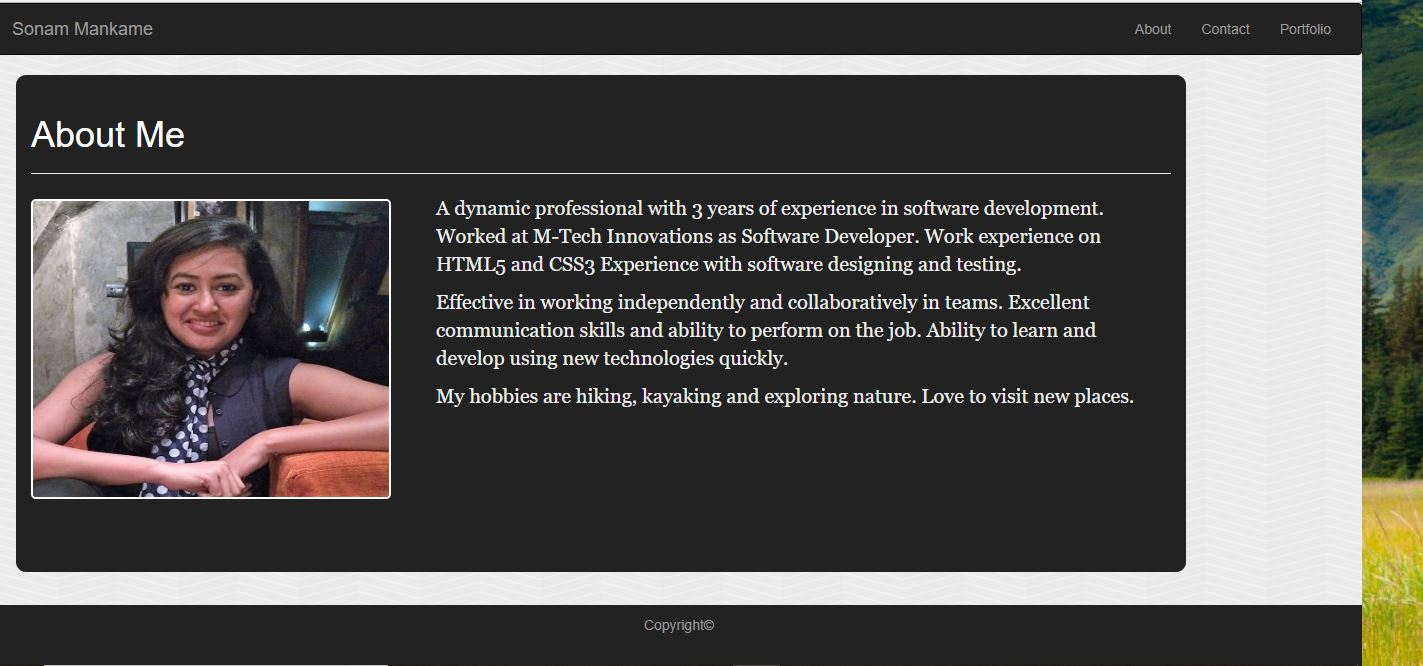
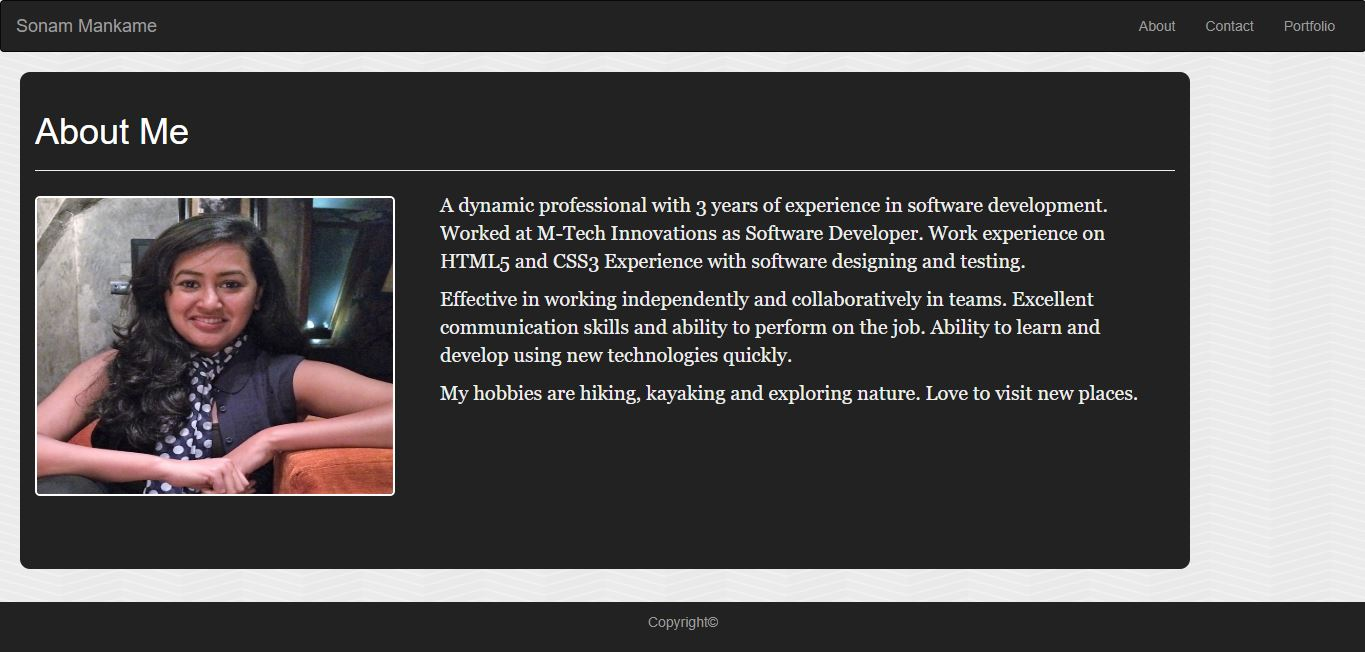
made changes to contact and portfolio page and stylesheet and added image

Changed region(s): [[0.0, 0.0, 1.0, 1.0]]

diff --git a/portfolio.html b/portfolio.html
@@ -24,9 +24,10 @@
     </div>
     <div class="collapse navbar-collapse" id="myNavbar">
         <ul class="nav navbar-nav navbar-right">
-                <li>  <a href="contact.html"  target="_blank">Contact</a></li>
+          <li> <a href="index.html " target="_blank">About</a></li>      
+          <li>  <a href="contact.html"  target="_blank">Contact</a></li>
              <li>   <a href="portfolio.html" >Portfolio</a></li>
-              <li> <a href="index.html " target="_blank">About</a></li> 
+             
               </ul>
    </div>
     </div>
@@ -58,14 +59,14 @@
                       <div class ="row">
                           <div class=" col-xs-12  col-sm-6 col-md-6 col-lg-12 ">
                            <div class="container1">
-                              <img src="assets/images/fanpageimg.JPG" alt="Fanpage">
-                                <button type="button" onclick= "window.open('https://sonam25.github.io/fanpage/','_blank') ">Fanpage</button>
+                              <img src="assets/images/Responsive-Project.JPG" alt="Responsive-Project">
+                                <button type="button" onclick= "window.open('https://sonam25.github.io/Responsive-Portfolio/','_blank') ">Responsive-Portfolio</button>
                             </div>
                           </div>
                           <div class="col-xs-12  col-sm-6 col-md-6 col-lg-12 ">
                             <div class="container1">
-                                  <img src="assets/images/Wireframe.JPG" alt="Wireframe Project" class="img-responsive">
-                                  <button type="button"onclick= "window.open('https://sonam25.github.io/HW-Wireframe/') ">Wireframe</button>
+                                  <img src="assets/images/Bootstrap project.JPG" alt="Bootstrap Project" class="img-responsive">
+                                  <button type="button"onclick= "window.open('https://sonam25.github.io/Bootstrap-Portfolio/','_blank') ">Bootstrap-Portfolio</button>
                                 </div>
                               </div> 
                       </div>

diff --git a/assets/css/style.css b/assets/css/style.css
@@ -26,7 +26,7 @@ footer{
 }
 .container{
      background-color: #222;
-     height:70%;
+     height:75%;
     margin:0 10px 0 20px;
      border-radius: 10px;
  }
@@ -102,7 +102,7 @@ label{
 .container1 img {
     margin-left:10px;
     width: 95%;
-    height: 180px;
+    height: 160px;
     border:4px solid #009999;
     border-radius: 5px;
 }
@@ -123,10 +123,12 @@ label{
 .container1 button:hover {
     background-color: black;
 }
-@media screen and (max-width:768px){
+
+
+@media screen and (max-width:960px){
     .container{
         background-color: #222;
-        height:80%;
+        height:76%;
        margin:0 10px 0 20px;
         border-radius: 10px;
         overflow: auto;
@@ -159,10 +161,13 @@ label{
         /*margin: 5px 20px 20px 10px;*/
     }
 }
-@media screen and (max-width:640px){
+
+
+
+@media screen and (max-width:768px){
     .container{
         background-color: #222;
-        height:80%;
+        height:78%;
        margin:0 10px 0 20px;
         border-radius: 10px;
         overflow: auto;
@@ -170,7 +175,43 @@ label{
     .container1 img {
         margin-left:10px;
         width: 95%;
-        height: 110px;
+        height: 130px;
+        border:4px solid #009999;
+        border-radius: 5px;
+    }
+    
+    .container1 button {
+        position: absolute;
+        top: 65%;
+        left: 10px;
+        width:95%;
+        background-color:#009999;
+        color: white;
+        font-size: 16px;
+        border: none;
+       padding:8px;
+        text-align: center;
+    }
+    .para{
+        font-family: 'Georgia', Times,'Times New Roman', serif;
+        font-size: 17px;
+        color: #eee;
+        
+        /*margin: 5px 20px 20px 10px;*/
+    }
+}
+@media screen and (max-width:640px){
+    .container{
+        background-color: #222;
+        height:78%;
+       margin:0 10px 0 20px;
+        border-radius: 10px;
+        overflow: auto;
+    }
+    .container1 img {
+        margin-left:10px;
+        width: 95%;
+        height: 100px;
         border:4px solid #009999;
         border-radius: 5px;
     }

diff --git a/contact.html b/contact.html
@@ -24,9 +24,10 @@
     </div>
     <div class="collapse navbar-collapse" id="myNavbar">
         <ul class="nav navbar-nav navbar-right">
-              <li>  <a href="contact.html">Contact</a></li>
+            <li> <a href="index.html " target="_blank">About</a></li>   
+            <li>  <a href="contact.html">Contact</a></li>
              <li>   <a href="portfolio.html"  target="_blank">Portfolio</a></li>
-              <li> <a href="index.html " target="_blank">About</a></li> 
+              
               </ul>
    </div>
     </div>
